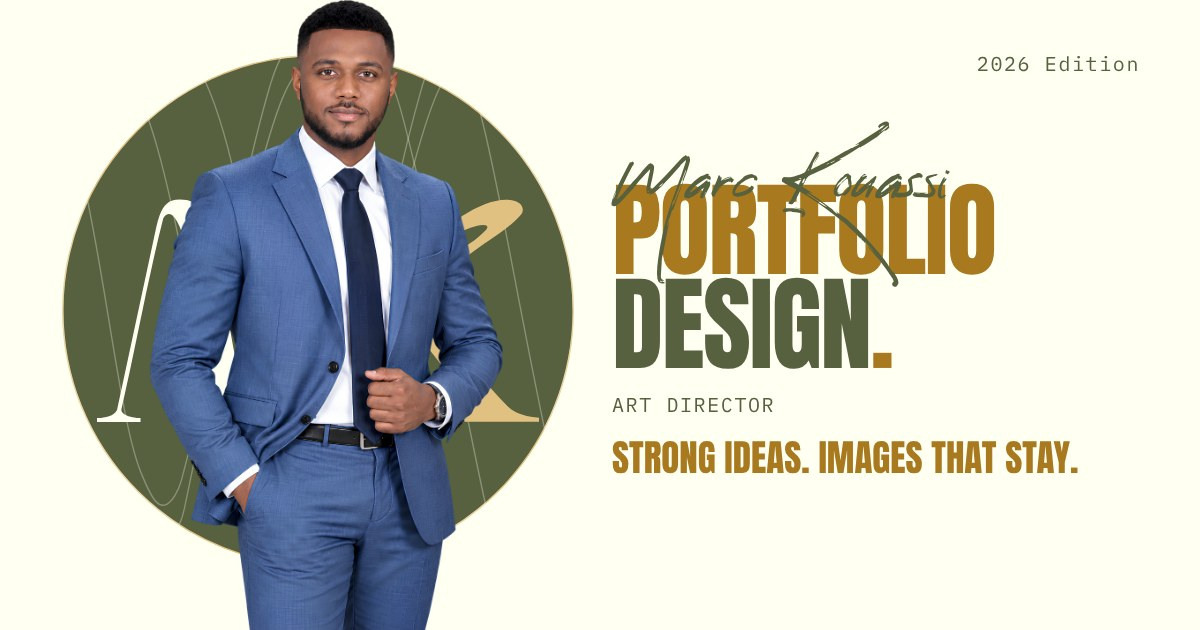
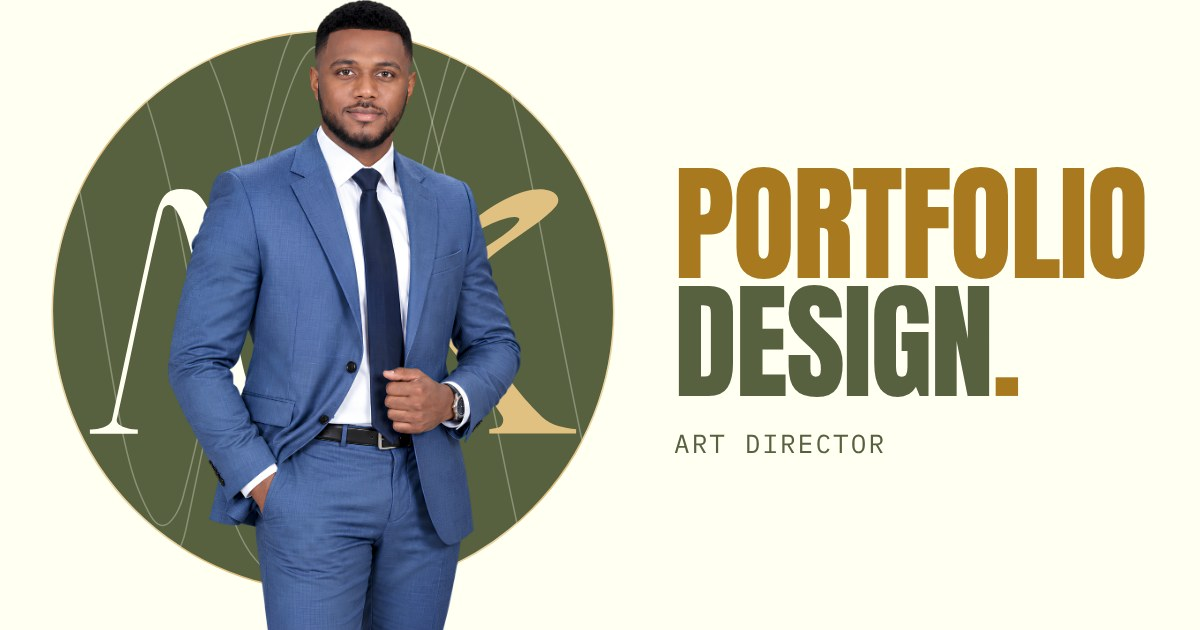
carte de partage : sceau agrandi, PORTFOLIO DESIGN. et le rôle seuls (#184)
Retours de Marc après un partage réel dans WhatsApp : sceau complet
agrandi de 10 %, PORTFOLIO / DESIGN. en grand, le rôle dessous ; l'édition,
le nom manuscrit et la promesse sont retirés. Signature accepte une
salutation absente. Cartes FR et EN régénérées ; jetons --partage-* revus.

À valider par Marc avant fusion.

Claude-Session: https://claude.ai/code/session_01X5gunKKqrhBFaER7GNHKkR

Changed region(s): [[0.0308, 0.0, 0.9558, 1.0], [0.8017, 0.0905, 0.9558, 0.1206]]

diff --git a/Design_System/gabarits/Partage/Partage.js b/Design_System/gabarits/Partage/Partage.js
@@ -2,9 +2,11 @@
  * PARTAGE — la carte de partage (og:image) : 1200 × 630, une par langue (#184).
  *
  * Composition, pas composant : le portrait de « À propos » devant le sceau
- * complet sur fond vert (Sceau, taille « partage »), et à droite la signature de la
- * couverture (Signature, échelle « partage »). Aucun texte ici : tout vient de
- * la section couverture et du portrait, exactement comme sur le site.
+ * complet sur fond vert (Sceau, taille « partage »), et à droite les deux mots
+ * de la signature de la couverture en grand (Signature, échelle « partage »,
+ * sans salutation), le rôle dessous. Décision de Marc du 11 octobre : ni
+ * édition, ni nom manuscrit, ni promesse, illisibles en vignette. Aucun texte
+ * ici : tout vient de la couverture et du portrait.
  *
  * La carte n'est jamais servie comme page : tools/partage.mjs la capture en
  * image (Public/images/Partage/). Le build ne fait que publier cette image.
@@ -24,12 +26,9 @@ export function textesPartage({ contenu, ctx }) {
   if (!couverture || !apropos?.portrait?.src) return null;
   const chemin = `sections.${couverture.id}`;
   return {
-    edition: ctx.c(couverture.edition, `${chemin}.edition`),
-    salutation: ctx.c(couverture.signature.salutation, `${chemin}.signature.salutation`),
     accent: ctx.c(couverture.signature.accent, `${chemin}.signature.accent`),
     mot: ctx.c(couverture.signature.mot, `${chemin}.signature.mot`),
     role: ctx.c(couverture.role, `${chemin}.role`),
-    promesse: ctx.c(couverture.promesse, `${chemin}.promesse`),
     portrait: { src: apropos.portrait.src, alt: ctx.c(apropos.portrait.alt, `sections.${apropos.id}.portrait.alt`) },
   };
 }
@@ -46,10 +45,8 @@ export function CartePartage({ contenu, ctx }) {
 <div class="partage__sceau">${Sceau({ taille: "partage" })}</div>
 <img${attributs({ class: "partage__portrait", src: ctx.media(textes.portrait.src).src, alt: textes.portrait.alt })}>
 <div class="partage__texte">
-<p class="partage__edition">${textes.edition}</p>
-${Signature({ niveau: 1, echelle: "partage", textes })}
+${Signature({ niveau: 1, echelle: "partage", textes: { accent: textes.accent, mot: textes.mot } })}
 <p class="partage__role">${textes.role}</p>
-<p class="partage__promesse">${textes.promesse}</p>
 </div>
 </div>`;
 }

diff --git a/Design_System/gabarits/Partage/Partage.css b/Design_System/gabarits/Partage/Partage.css
@@ -1,7 +1,8 @@
 /* ==========================================================================
    PARTAGE — carte de partage (og:image), 1200 x 630, capturee en image
    Fond creme fixe : la carte ne suit jamais le theme. Le sceau vert et le
-   portrait a gauche, la signature de la couverture a droite (#184).
+   portrait a gauche ; a droite PORTFOLIO DESIGN. en grand, le role dessous
+   (#184, version du 11 octobre).
    ========================================================================== */
 .partage {
   /* Couleurs du fond clair, quel que soit le theme de la capture. */
@@ -16,18 +17,11 @@
 .partage__sceau { position: absolute; left: var(--partage-sceau-gauche); top: var(--partage-sceau-haut); }
 .partage__portrait { position: absolute; left: var(--partage-portrait-gauche); bottom: 0; height: 100%; width: auto; max-width: none; }
 .partage__texte {
-  position: absolute; top: var(--partage-texte-marge); bottom: var(--partage-texte-marge); right: var(--partage-texte-droite);
+  position: absolute; top: 0; bottom: 0; right: var(--partage-texte-droite);
   width: var(--partage-texte-largeur);
   display: flex; flex-direction: column; justify-content: center; gap: var(--partage-espace);
 }
-.partage__texte p { margin: 0; }
-.partage__edition, .partage__role {
-  font-family: var(--font-mono); font-size: var(--partage-type-etiquette);
-  letter-spacing: var(--partage-espacement-etiquette); color: var(--texte);
-}
-.partage__edition { position: absolute; top: 0; right: 0; }
-.partage__role { text-transform: uppercase; }
-.partage__promesse {
-  font-family: var(--font-display); font-size: var(--partage-type-promesse); font-weight: var(--weight-regular);
-  line-height: var(--partage-interligne-promesse); text-transform: uppercase; color: var(--accent-gold);
+.partage__role {
+  margin: 0; font-family: var(--font-mono); font-size: var(--partage-type-etiquette);
+  letter-spacing: var(--partage-espacement-etiquette); text-transform: uppercase; color: var(--texte);
 }

diff --git a/Design_System/composants/Signature/Signature.js b/Design_System/composants/Signature/Signature.js
@@ -7,10 +7,10 @@ import { html, attributs, classes, brut } from "../../fondations/rendu.js";
  * @param {object} p
  * @param {1|2} [p.niveau]
  * @param {"couverture"|"section"|"partage"} [p.echelle]  partage : carte de partage, taille fixe
- * @param {{salutation:string, accent:string, mot:string}} p.textes
+ * @param {{salutation?:string, accent:string, mot:string}} p.textes  sans salutation : les deux mots seuls (carte de partage)
  * @param {string|null} [p.id]
  */
 export function Signature({ niveau = 2, echelle = "section", textes, id = null }) {
   const balise = brut(`h${niveau}`);
-  return html`<${balise}${attributs({ class: classes("signature", `signature--${echelle}`), id })}><span class="signature__salut">${textes.salutation}</span><span class="signature__mot signature__mot--accent">${textes.accent}</span><span class="signature__mot">${textes.mot}<b class="signature__point" aria-hidden="true">.</b></span></${balise}>`;
+  return html`<${balise}${attributs({ class: classes("signature", `signature--${echelle}`), id })}>${textes.salutation ? html`<span class="signature__salut">${textes.salutation}</span>` : ""}<span class="signature__mot signature__mot--accent">${textes.accent}</span><span class="signature__mot">${textes.mot}<b class="signature__point" aria-hidden="true">.</b></span></${balise}>`;
 }

diff --git a/Design_System/fondations/Tokens.css b/Design_System/fondations/Tokens.css
@@ -685,24 +685,18 @@
   /* Carte de partage (og:image, #184) : une image fixe de 1200 x 630,
      capturee par tools/partage.mjs. Valeurs en pixels : elle ne s'adapte
      a aucun ecran, elle EST le format attendu par les reseaux. */
-  --sceau-partage: 540px;
+  --sceau-partage: 594px;
   --partage-largeur: 1200px;
   --partage-hauteur: 630px;
-  --partage-sceau-gauche: 48px;
-  --partage-sceau-haut: 44px;
-  --partage-portrait-gauche: 150px;
-  --partage-texte-marge: 48px;
-  --partage-texte-droite: 60px;
-  --partage-texte-largeur: 528px;
-  --partage-espace: 17px;
-  --partage-signature-haut: 40px;
-  --partage-type-etiquette: 20px;
-  --partage-type-salut: 53px;
-  --partage-type-mot: 104px;
-  --partage-type-promesse: 37px;
-  --partage-signature-chevauchement: -.42em;
-  --partage-interligne-mot: .9;
-  --partage-interligne-promesse: 1.05;
+  --partage-sceau-gauche: 36px;
+  --partage-sceau-haut: 18px;
+  --partage-portrait-gauche: 168px;
+  --partage-texte-droite: 56px;
+  --partage-texte-largeur: 470px;
+  --partage-espace: 22px;
+  --partage-type-etiquette: 26px;
+  --partage-type-mot: 128px;
+  --partage-interligne-mot: .92;
   --partage-espacement-etiquette: .08em;
   --pastille-rond: 42px;
   --pastille-rond-compact: 36px;

diff --git a/Design_System/composants/Signature/Signature.css b/Design_System/composants/Signature/Signature.css
@@ -20,8 +20,6 @@
 /* Carte de partage : image fixe de 1200 x 630, tailles en pixels (#184). */
 .signature--partage {
   --signature-taille: var(--partage-type-mot);
-  --signature-taille-salut: var(--partage-type-salut);
-  --signature-chevauchement: var(--partage-signature-chevauchement);
   --signature-interligne: var(--partage-interligne-mot);
 }
 .signature__salut {

diff --git a/Design_System/gabarits/Partage/Partage.md b/Design_System/gabarits/Partage/Partage.md
@@ -4,13 +4,15 @@
 
 ## Composition
 
-Fond crème. À gauche, le sceau complet sur fond vert (`Sceau`, taille `partage`) et, devant lui, le portrait détouré de « À propos ». À droite, la signature de la couverture (`Signature`, échelle `partage`) : édition, salutation, PORTFOLIO / DESIGN., rôle, promesse. Pas d'adresse du site (décision de Marc).
+Fond crème. À gauche, le sceau complet sur fond vert (`Sceau`, taille `partage`, agrandi de 10 % le 11 octobre) et, devant lui, le portrait détouré de « À propos ». À droite, en grand, les deux mots de la signature de la couverture (`Signature`, échelle `partage`, **sans salutation**) : PORTFOLIO / DESIGN., et le rôle dessous.
+
+Retirés à la demande de Marc (11 octobre, après essai dans WhatsApp) : l'édition, le nom manuscrit et la promesse, illisibles en vignette et redits par le titre et la description du partage. Pas d'adresse du site.
 
 ## Données — rien n'est écrit dans le code
 
 | Affiché | Source |
 |---|---|
-| Édition, salutation, accent, mot, rôle, promesse | section `couverture` de `content/sections.json` |
+| Accent, mot, rôle | section `couverture` de `content/sections.json` |
 | Portrait et son texte alternatif | `portrait` de la section `apropos` |
 
 `textesPartage({ contenu, ctx })` résout ces valeurs ; sans couverture ou sans portrait, elle renvoie `null` et la carte n'est pas rendue.
